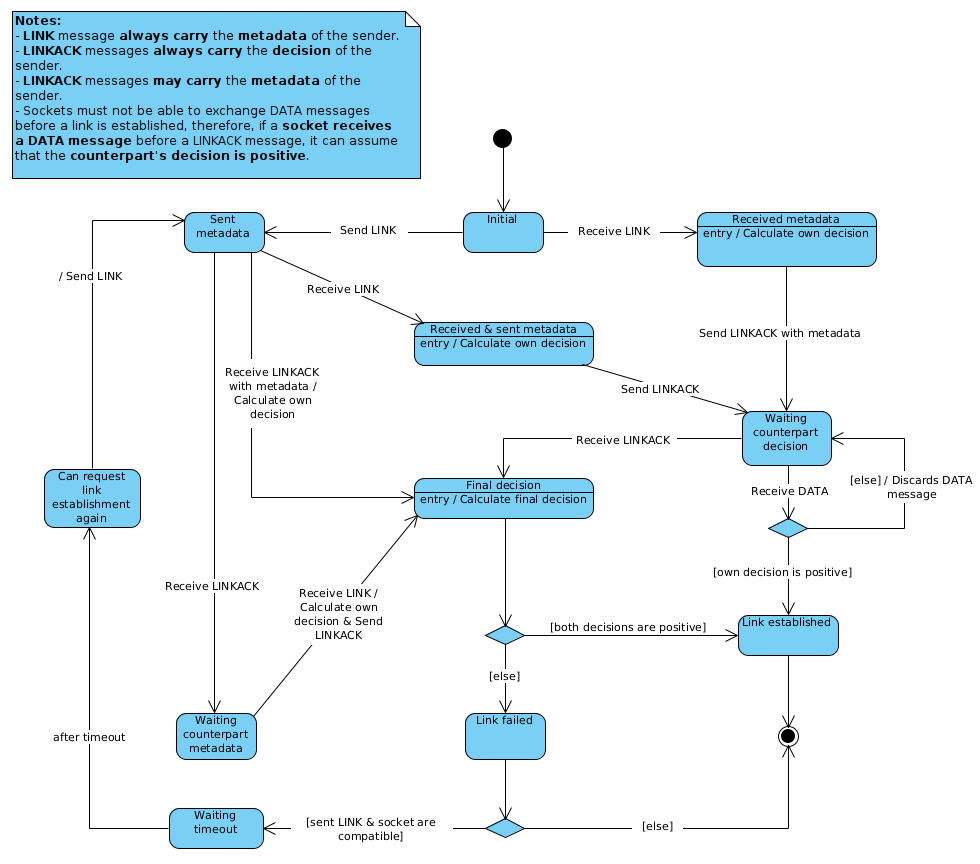
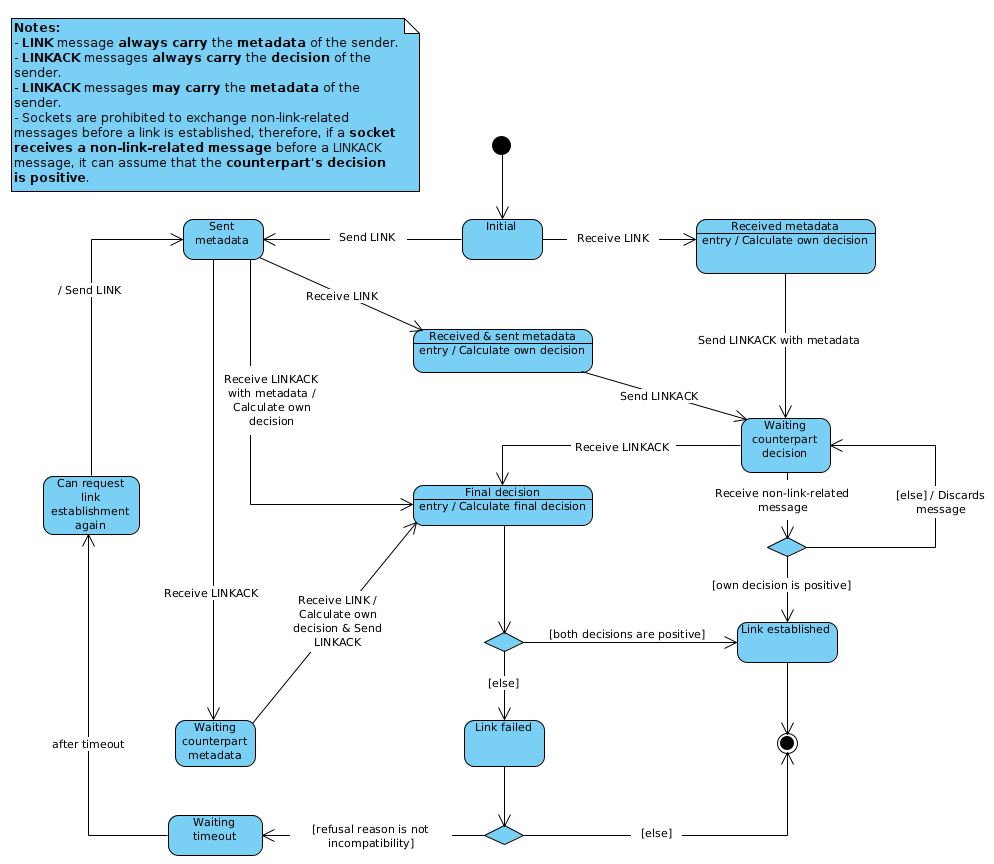
.

diff --git a/Tese/Tese/Reunioes/Reuniao 2024-05-27.md b/Tese/Tese/Reunioes/Reuniao 2024-05-27.md
@@ -106,7 +106,7 @@ Having that said, the main possible linking flows are the following:
 	1. Socket A sends `LINK` message to socket B;
 	2. Socket B formulates a decision using the received metadata;
 	3. Socket B sends a `LINKACK` message containing its decision and metadata;
-	4. Socket A uses the received metadata to formulate its decision and sends it to socket B in a `LINKACK` message;
+	4. Socket A uses the received metadata to formulate its decision and sends it to socket B in a `LINKACK` message[^a];
 	5. Both sockets analyze the decisions. If both decisions are positive, they establish the link by registering each other as linked sockets.
 - **Scenario 2 (Both sockets initiate the link establishment process simultaneously):**
 	1. Socket A and Socket B both send `LINK` messages to each other;
@@ -114,6 +114,8 @@ Having that said, the main possible linking flows are the following:
 	3. Both sockets share their decision;
 	4. Both sockets analyze the decisions. If both decisions are positive, they establish the link by registering each other as linked sockets.
 - The remaining possible flows can be verified through the examination of the state machine diagram presented further ahead. 
+
+[^a] Socket A's metadata is not included in the `LINKACK` messages as it was already sent previously in the `LINK` message.
 
 The main goal of establishing links is to ensure compatibility, which can only be determined through the exchange of metadata. Currently, the only required metadata is the socket type. However, extending the linking process to include custom logic, such as messaging protocol logic or authorization/authentication procedures, might be beneficial. This could reduce the number of messages exchanged by embedding custom metadata within the link handshake messages, instead of performing additional handshakes after establishing the link.
 
@@ -123,161 +125,19 @@ In an ideal linking procedure, both sockets could reach the same conclusion rega
 
 [^2] Let's consider an example where a socket is a server and demands authentication, and that the extension of the linking procedure includes the authentication process. The server cannot and must not share all its credentials with the client so that the client can generate the server's decision on its end.
 
+Since the most common scenario involves one socket initiating the link establishment process, the `LINKACK` messages may include metadata along with the socket's decision. This reduces the number of messages needed to reach the final decision.
+
 When a socket has both decisions, it can calculate the final decision. If both decisions are positive, the link is established. If at least one decision is negative, the link is not established.
 
-Depending on which decision is negative, which socket initiated the link establishment, and the reason for the refusal, the information related to the other socket may be discarded. A socket that initiates a link establishment will only discard all information related to the other socket if the reason for refusal is incompatibility. If the reason differs from incompatibility (e.g., refusal due to reaching the limit of established links), the requester may issue a new link establishment request after a proper timeout[^3]. A socket receiving a link establishment request is not obligated to retain the information of the requester if the refusal reason differs from incompatibility, as it was not its intention to establish the link.
+Depending on which decision is negative, which socket initiated the link establishment, and the reason for the refusal, the information related to the other socket may be discarded. A socket that initiates a link establishment will only discard all information related to the other socket if the reason for refusal is incompatibility[^3]. If the reason differs from incompatibility (e.g., refusal due to reaching the limit of established links), the requester may issue a new link establishment request after a proper timeout[^4]. A socket receiving a link establishment request is not obligated to retain the information of the requester if the refusal reason differs from incompatibility, as it was not its intention to establish the link.
 
-[^3] Establishing random timeouts is ideal to avoid link establishment request storms.
-
-Incompatibility can only be used as a refusal reason if the rejection factor is a static parameter that will not change during the socket's life, such as the socket type.
-
-#### Establishing a link (detailed)
-
-As mentioned earlier, the main goal of establishing links is to ensure compatibility. The compatibility can only be determined through the exchange of metadata. Currently, the only required metadata is the socket type. However, it might be beneficial to extend the linking process to include custom logic, such as messaging protocol logic or authorization/authentication procedures. This could reduce the number of messages exchanged by embedding custom metadata within the link handshake messages, instead of performing an additional handshake(s) after establishing the link.
-
-Let's assume that both sockets exchange LINK messages which purpose is to carry the metadata of the sender. Now, they both hold their own metadata and their counterpart's metadata. If we assume a symmetric linking procedure which only requires the counterpart's metadata, then no more messages need to be exchanged between the peers as they both will reach the same conclusion regarding the establishment of the link. However, having in mind the extension of linking procedures, assuming that all custom linking procedures can be symmetric is optimistic and naive. The sockets may have information that should not or cannot be shared[^2], making it impossible to achieve a symmetric linking procedure solely through the exchange of metadata. Hence, after receiving the counterpart's metadata and using it to reach a decision, each socket must share their decision regarding the link establishment through a LINKACK message. 
-
-[^2] Let's consider an example where a socket is a server and demands authentication, and that the extension of the linking procedure includes the authentication process. The server cannot and must not share all its credentials with the client so that the client can generate the server's decision on its end.
-
-When in possession of both decisions, the socket can calculate the final decision. If both decisions are positive, meaning that both sockets accepted the other socket as a counterpart, then the link is established. If at least one of the decisions is negative, then the link is not established.
-
-Depending on which decision is negative, which socket issued the link establishment and the reason for the refusal, the information related to the other socket may be totally discarded. A socket that issues a link establishment will only discard all the information related to the other socket if the reason for refusal is incompatibility[^3]. If the reason differs from incompatibility (e.g. socket refused due to having reached the limit of established links), then the requester may issue a new link establishment request after a proper timeout[^4]. A socket that receives a link establishment request is not obligated to retain the information of the requester if the reason of refusal differs from incompatibility. This is because, it wasn't its intention to establish the link. 
-
-[^3] Incompatibility can only be used as a reason for refusal if the factor that led to the rejection is a static parameter that will not change during the life of the socket, such as the socket type. 
+[^3] Incompatibility can only be used as a refusal reason if the rejection factor is a static parameter that will not change during the socket's life, such as the socket type.
 [^4] Establishing random timeouts is ideal to avoid link establishment request storms.
 
+In this linking process, one socket (A) always establishes the link first, while the other socket (B) awaits A's decision. Once A has established the link, it can start sending messages to B. However, due to the transport protocol's lack of order guarantees, a message from A that is unrelated to the linking process may reach B before A's `LINKACK` message. Since sockets are prohibited from exchanging messages with a non-linked socket, if B receives a non-link-related message while still awaiting A's decision, B can interpret this message as an implicit positive decision from A. B can then proceed to establish the link and process the received message.
+
+
 ![[Link establishment State Machine.png]]
-
-
-LINK messages carry the metadata of the sender. If both sockets exchange LINK messages, then both sockets have metadata about each other. If we assume that the linking procedure is symmetric, then no more messages need to be exchanged between the peers as they both will reach the same conclusion regarding the establishment of the link. However, if we assume that in the future, the linking procedure may be extended, the linking procedure may cease to be symmetric. If the linking procedure is not symmetric, i.e., if each socket may reach a different answer regarding the link establishment, then metadata exchange is not enough for a decision to be reached. It is also necessary that both sockets share their decision. If at least one of the sockets refuses the establishment of the link, then the link should not be established. The decision of each socket must be shared through a LINKACK message. To reduce the amount of traded messages to reach the final decision, a LINKACK message may care the sender's metadata if the metadata has not been sent yet.
-
-In short, for a link to be established, both sockets must share their metadata and decision with the socket they want to form a link with. A decision can only be made after receiving the counterpart's metadata. A socket calculates the final decision after generating its own decision (from the counterpart's metadata) and receiving the counterpart's decision.
-
-The order in which the counterpart's metadata and decision is received does not matter.
-
-
-Essentially, there are 3 phases related to the establishment of a link:
-1. Waiting counterpart metadata;
-2. Waiting counterpart decision;
-3. Calculation of the final decision.
-
-**Most Common Scenario (only one socket requests the establishment):**
-
-1. A ------- LINK with A's metadata ---------------> B
-
-2. A <---- LINKACK with B's metadata ------------ B
-
-3. A ------- LINKACK without A's metadata ----> B  _(A's metadata is not required as it was already sent in the LINK message)_
-
-**Simultaneous Request Scenario (both sockets send a LINK message before receiving the other socket's LINK message):**
-1. A <------- Exchange of LINK with metadata ---------------> B
-
-2. A <------- Exchange of LINKACK without metadata ----> B
-
-
-
-The flow is described in the following tables:
-<span style="color:red"> Substituir flows por tabelas com ações de um único ator. Fazer flow para enviar LINK e fazer flow para receber LINK.</span>
-
-The following tables describe the flow of sending a LINK message:
-
-| Step | Actor    | Action                                                                         | Notes & References                                                                                                         |
-| ---- | -------- | ------------------------------------------------------------------------------ | -------------------------------------------------------------------------------------------------------------------------- |
-| BF-1 | Socket A | Sends LINK message to socket B containing A's metadata.                        |                                                                                                                            |
-| BF-2 | Socket A | Waits for a message from socket B.                                             |                                                                                                                            |
-| BF-3 | Socket A | Receives a LINKACK message from socket B containing B's decision and metadata. | AF-A (Receives a LINK message from socket B)                                                                               |
-| BF-4 | Socket A | Generates its own decision using B's metadata.                                 |                                                                                                                            |
-| BF-5 | Socket A | Sends LINKACK message to B containing A's decision.                            | A's metadata is not sent since B has already received and used it to calculate its own decision.                           |
-| BF-6 | Socket A | Calculates final decision using its own decision and B's decision.             | The final decision is "link accepted" if both sockets accepted the establishment of the link. Or "link refused" otherwise. |
-| BF-7 | Socket A | Verifies that the final decision is "link accepted".                           | EF-A (Link refused)                                                                                                        |
-| BF-8 | Socket A | Registers Socket B as a linked socket.                                         |                                                                                                                            |
-
-**AF-A (Receives a LINK message from socket B):**
-
-| Step   | Actor    | Action                                                         | Notes & References                                                                                                                                                                                                                            |
-| ------ | -------- | -------------------------------------------------------------- | --------------------------------------------------------------------------------------------------------------------------------------------------------------------------------------------------------------------------------------------- |
-| AF-A-1 | Socket A | Receives a LINK message from socket B containing B's metadata. |                                                                                                                                                                                                                                               |
-| AF-A-2 | Socket A | Generates its own decision using B's metadata.                 |                                                                                                                                                                                                                                               |
-| AF-A-3 | Socket A | Sends LINKACK message to B containing A's decision.            |                                                                                                                                                                                                                                               |
-| AF-A-4 | Socket A | Waits for a LINKACK or DATA message from B.                    | DATA messages can only be sent if the final decision is "link accepted". As the final decision involves both sockets decisions, receiving a DATA message before a LINKACK message means that the counterpart socket has established the link. |
-| AF-A-5 | Socket A | Receives a LINKACK message from B containing B's decision.     | AF-B (Receives a DATA message from socket B)                                                                                                                                                                                                  |
-| AF-A-6 | Socket A | Returns to BF-6.                                               |                                                                                                                                                                                                                                               |
-
-**AF-B (Receives a DATA message from socket B):**
-
-| Step   | Actor    | Action                                                                                        | Notes & References |
-| ------ | -------- | --------------------------------------------------------------------------------------------- | ------------------ |
-| AF-B-1 | Socket A | Receives a DATA message from B.                                                               |                    |
-| AF-B-2 | Socket A | Returns to BF-7.                                                                              |                    |
-| AF-B-3 | Socket A | Receives a LINKACK message from B containing B's decision.                                    |                    |
-| AF-B-4 | Socket A | Ignores the LINKACK message as the DATA message was used to infer a positive decision from B. |                    |
-
-
-
-
-
-<span style="color:red"> Fazer flow para receber LINK. Reler tudo (tanto as tabelas como o resto relacionado com os links).</span>
-
-
-
------
-----------
-------------
-
-
-| Step  | Actor    | Action                                                                                            | Notes & References                                                                                                         |
-| ----- | -------- | ------------------------------------------------------------------------------------------------- | -------------------------------------------------------------------------------------------------------------------------- |
-| BF-1  | Socket A | Sends LINK message to socket B.                                                                   |                                                                                                                            |
-| BF-2  | Socket B | Receives a LINK message from A.                                                                   |                                                                                                                            |
-| BF-3  | Socket B | Verifies if a LINK message has not been sent to A.                                                | AF-A (LINK message has been sent to A)                                                                                     |
-| BF-4  | Socket B | Generates its own decision using A's metadata.                                                    |                                                                                                                            |
-| BF-5  | Socket B | Sends LINKACK message to A containing its B's decision and metadata.                              |                                                                                                                            |
-| BF-6  | Socket A | Receives LINKACK message from B.                                                                  |                                                                                                                            |
-| BF-7  | Socket A | Generates its own decision using B's metadata.                                                    |                                                                                                                            |
-| BF-8  | Socket A | Sends LINKACK message to B containing A's decision.                                               | A's metadata is not sent since B has already received and used it to calculate its own decision.                           |
-| BF-9  | Socket A | Calculates final decision using its own decision and B's decision present in the LINKACK message. | The final decision is "link accepted" if both sockets accepted the establishment of the link. Or "link refused" otherwise. |
-| BF-10 | Socket A | Verifies that the final decision is "link accepted".                                              | EF-A (Link refused)                                                                                                        |
-| BF-11 | Socket A | Registers Socket B as a linked socket.                                                            |                                                                                                                            |
-| BF-12 | Socket B | Receives LINKACK message from A.                                                                  |                                                                                                                            |
-| BF-13 | Socket B | Calculates final decision using its own decision and A's decision present in the LINKACK message. |                                                                                                                            |
-| BF-14 | Socket B | Verifies that the final decision is "link accepted".                                              |                                                                                                                            |
-| BF-15 | Socket B | Registers Socket A as a linked socket.                                                            |                                                                                                                            |
-
-
-**AF-A (LINK message has been sent to A):**
-
-| Step   | Actor    | Action                                                                                            | Notes & References                                     |
-| ------ | -------- | ------------------------------------------------------------------------------------------------- | ------------------------------------------------------ |
-| AF-A-1 | Socket B | Generates its own decision using A's metadata.                                                    |                                                        |
-| AF-A-2 | Socket B | Sends LINKACK message to A containing B's decision.                                               |                                                        |
-| AF-A-3 | Socket A | Receives LINK message from B.                                                                     | AF-A-3.1 (LINKACK message arrived before LINK message) |
-| AF-A-4 | Socket A | Generates its own decision using B's metadata.                                                    |                                                        |
-| AF-A-5 | Socket A | Sends LINKACK message to B containing A's decision.                                               |                                                        |
-| AF-A-6 | Socket A | Receives LINKACK message from B.                                                                  |                                                        |
-| AF-A-7 | Socket A | Calculates final decision using its own decision and B's decision present in the LINKACK message. |                                                        |
-| AF-A-8 | Socket A | Verifies that the final decision is "link accepted".                                              | EF-A (Link refused)                                    |
-| AF-A-9 | Socket A |                                                                                                   |                                                        |
-
-
-**EF-A (Link refused):**
-
-| Step | Actor | Action | Notes & References |
-| ---- | ----- | ------ | ------------------ |
-
-
-After sending a LINK message, the socket enters the "Waiting counterpart metadata" phase where it awaits for the metadata of the other socket.
-
-
-
-Progressing to the "Waiting counterpart decision" can happen after receiving a LINK or a LINKACK message. When receivign
-
-
-
-After receiving metadata through a LINKACK message, the socket receives both the metadata required to create its own decision and the decision of the other socket. Since it has both decisions in its possession, it can generate the final decision. The link is established if both sockets agree on establishing the link.
-
-A socket may also progress from the "Waiting counterpart metadata" through the reception of a LINK message. In this case, using the received metadata, a decision must be reached and sent to the counterpart socket. Then, it should wait for the counterpart decision to be sent, to reach the final decision
-
-<span style="color:yellow">Receipts may be useful to prevent queuing at the destination socket. Even if a socket has reached the final decision, the counterpart may not have reached the decision because its waiting for a LINKACK message to arrive with the counterpart decision. In this situation, one socket is ready to send messages, but doing so before the other socket receives the LINKACK messages may result in the arrival of these messages before the LINKACK message. Since a socket can only send DATA messages to another socket if the linking operation is successful, there is no reason for the messages to be discarded, hence, they must be queued until the LINKACK message arrives. To prevent unnecessary queuing of messages, waiting for a receipt that indicates the arrival of the message at the destination may be a solution. <b style="color:limegreen">Another solution is just considering the link establishment a success when a DATA message arrives, since, as mentioned earlier, DATA messages can only flow when the link establishment is successful.</b> However, the receipts may be a useful feature nonetheless.</span> 
 
 #### LINK message format
 
